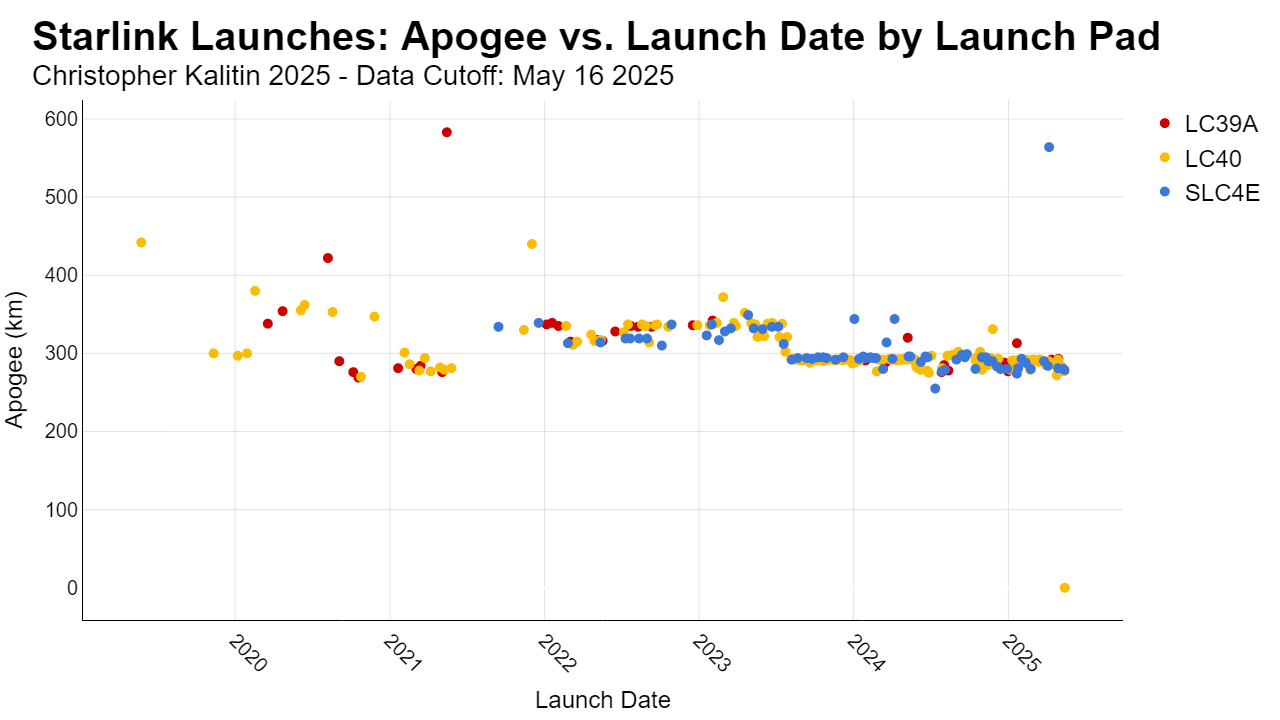
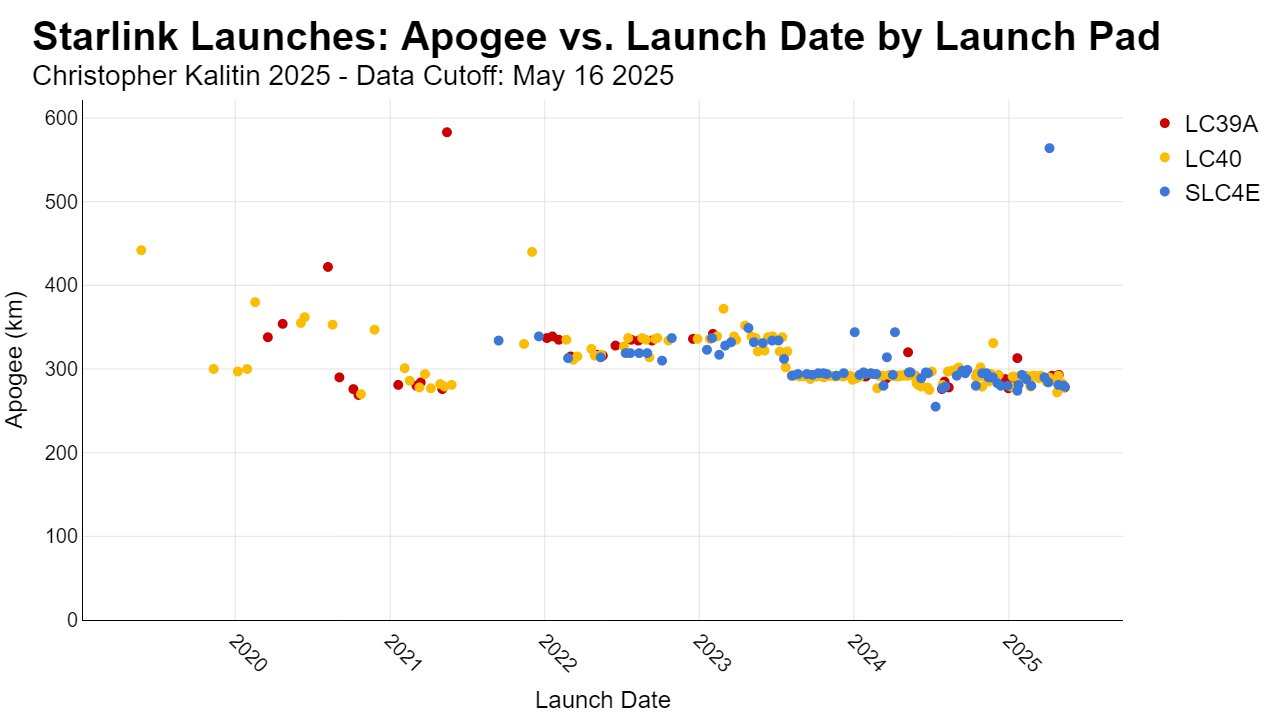
Refactor plot_scatter, update all chart scripts to refactored code

diff --git a/examples/starlink-inc-vs-date-per-site.py b/examples/starlink-inc-vs-date-per-site.py
@@ -1,52 +1,55 @@
 import mcdowell_dataset_analysis as mda
-import pandas as pd
-import matplotlib.pyplot as plt
 
-# Initialize the dataset
+# Initialize dataset
 dataset = mda.McdowellDataset()
-launch_df = dataset.launch.df.copy()
 
 # Filter for Starlink launches
-starlink_pattern = r'Starlink'
-filtered_df = launch_df[launch_df['Mission'].str.contains(starlink_pattern, case=False, na=False, regex=True)]
-print(f"Number of Starlink- launches: {len(filtered_df)}")
+mda.Filters.filter_by_mission(dataset.launch, 'Starlink', case=False)
+filtered_df = dataset.launch.df
+print(f"Number of Starlink launches: {len(filtered_df)}")
 
-# Select relevant columns
-filtered_df = filtered_df[['Launch_Date', 'Inc', 'Launch_Pad']]
+# Select relevant columns and drop missing Inclination
+filtered_df = (
+    filtered_df[['Launch_Date', 'Inc', 'Launch_Pad']]
+    .dropna(subset=['Inc'])
+)
 
-# Drop rows with missing Inclination_deg
-filtered_df = filtered_df.dropna(subset=['Inc'])
-print(f"Number of launches with valid Inclination_deg: {len(filtered_df)}")
+# Remove 0 inclination values
+filtered_df = filtered_df[filtered_df['Inc'] != 0]
 
-# Print unique launch pads
-print("Unique launch pads for Starlink- launches:")
+print(f"Number of launches with valid Inclination: {len(filtered_df)}")
+print("Unique launch pads for Starlink launches:")
 print(filtered_df['Launch_Pad'].unique())
 
-# Pivot the table: Launch_Date as index, Launch_Pad as columns, Inclination_deg as values
-pivoted_df = filtered_df.pivot(index='Launch_Date', columns='Launch_Pad', values='Inc')
+# Pivot for plotting
+pivoted_df = mda.ChartUtils.pivot_dataframe(
+    filtered_df,
+    index_col='Launch_Date',
+    column_col='Launch_Pad',
+    value_col='Inc'
+)
 
-# Reset index to make Launch_Date a column
-pivoted_df = pivoted_df.reset_index()
-
-# Sort by Launch_Date
-pivoted_df = pivoted_df.sort_values(by='Launch_Date')
-
-# Save to CSV without index
-pivoted_df.to_csv('examples/outputs/starlink_inclination_vs_date.csv', index=False)
+# Save to CSV
+pivoted_df.to_csv(
+    'examples/outputs/starlink_inclination_vs_date.csv',
+    index=False
+)
 print("CSV file 'starlink_inclination_vs_date.csv' has been created.")
 
 # Create scatter plot
-plt.figure(figsize=(10, 6))
-for pad in pivoted_df.columns[1:]:  # Skip 'Launch_Date'
-    plt.scatter(pivoted_df['Launch_Date'], pivoted_df[pad], label=pad, alpha=0.7)
-
-# Customize plot
-plt.title('Starlink- Launches: Inclination vs. Launch Date by Launch Pad')
-plt.xlabel('Launch Date')
-plt.ylabel('Inclination (degrees)')
-plt.legend(title='Launch Pad')
-plt.grid(True)
-
-# Save plot
-plt.savefig('examples/outputs/starlink_inclination_vs_date.png')
-print("Plot saved as 'starlink_inclination_vs_date.png'.")
+mda.ChartUtils.plot_scatter(
+    pivoted_df,
+    x_col='Launch_Date',
+    y_cols=pivoted_df.columns[1:],        # skip the date column
+    title='Starlink Launches: Inclination vs. Launch Date by Launch Pad',
+    subtitle='Christopher Kalitin 2025 – Data Cutoff: May 16 2025',
+    x_label='Launch Date',
+    y_label='Inclination (degrees)',
+    dot_diameter=10,
+    output_path='examples/outputs/starlink_inclination_vs_date.png',
+    color_map={
+        'LC40': '#fbbc04',
+        'LC39A': '#cc0000',
+        'SLC4E': '#3c78d8',
+    },
+)

diff --git a/examples/starlink-mass-vs-date-per-site.py b/examples/starlink-mass-vs-date-per-site.py
@@ -1,52 +1,58 @@
 import mcdowell_dataset_analysis as mda
-import pandas as pd
-import matplotlib.pyplot as plt
 
-# Initialize the dataset
+# Initialize dataset
 dataset = mda.McdowellDataset()
-launch_df = dataset.launch.df.copy()
 
 # Filter for Starlink launches
-starlink_pattern = r'Starlink'
-filtered_df = launch_df[launch_df['Flight'].str.contains(starlink_pattern, case=False, na=False, regex=True)]
+mda.Filters.filter_by_mission(dataset.launch, 'Starlink', case=False)
+filtered_df = dataset.launch.df
 print(f"Number of Starlink launches: {len(filtered_df)}")
 
-# Select relevant columns
-filtered_df = filtered_df[['Launch_Date', 'Payload_Mass', 'Launch_Pad']]
+# Select relevant columns and drop missing Payload_Mass
+filtered_df = (
+    filtered_df[
+        ['Launch_Date', 'Payload_Mass', 'Launch_Pad']
+    ]
+    .dropna(subset=['Payload_Mass'])
+)
 
-# Drop rows with missing Payload_Mass
-filtered_df = filtered_df.dropna(subset=['Payload_Mass'])
+# Remove 0 payload mass values
+filtered_df = filtered_df[filtered_df['Payload_Mass'] != 0]
+
 print(f"Number of launches with valid Payload_Mass: {len(filtered_df)}")
-
-# Print unique launch pads
 print("Unique launch pads for Starlink launches:")
 print(filtered_df['Launch_Pad'].unique())
 
-# Pivot the table: Launch_Date as index, Launch_Pad as columns, Payload_Mass as values
-pivoted_df = filtered_df.pivot(index='Launch_Date', columns='Launch_Pad', values='Payload_Mass')
+# Pivot for plotting
+pivoted_df = mda.ChartUtils.pivot_dataframe(
+    filtered_df,
+    index_col='Launch_Date',
+    column_col='Launch_Pad',
+    value_col='Payload_Mass'
+)
 
-# Reset index to make Launch_Date a column
-pivoted_df = pivoted_df.reset_index()
-
-# Sort by Launch_Date
-pivoted_df = pivoted_df.sort_values(by='Launch_Date')
-
-# Save to CSV without index
-pivoted_df.to_csv('examples/outputs/starlink_mass_vs_date.csv', index=False)
+# Save to CSV
+pivoted_df.to_csv(
+    'examples/outputs/starlink_mass_vs_date.csv',
+    index=False
+)
 print("CSV file 'starlink_mass_vs_date.csv' has been created.")
 
 # Create scatter plot
-plt.figure(figsize=(10, 6))
-for pad in pivoted_df.columns[1:]:  # Skip 'Launch_Date'
-    plt.scatter(pivoted_df['Launch_Date'], pivoted_df[pad], label=pad, alpha=0.7)
-
-# Customize plot
-plt.title('Starlink Launches: Payload Mass vs. Launch Date by Launch Pad')
-plt.xlabel('Launch Date')
-plt.ylabel('Payload Mass (kg)')
-plt.legend(title='Launch Pad')
-plt.grid(True)
-
-# Save plot
-plt.savefig('examples/outputs/starlink_mass_vs_date.png')
-print("Plot saved as 'starlink_mass_vs_date.png'.")
+mda.ChartUtils.plot_scatter(
+    pivoted_df,
+    x_col='Launch_Date',
+    y_cols=pivoted_df.columns[1:],        # skip the date column
+    title='Starlink Launches: Payload Mass vs. Launch Date by Pad',
+    subtitle='Christopher Kalitin 2025 – Data Cutoff: May 16 2025',
+    x_label='Launch Date',
+    y_label='Payload Mass (t)',
+    y_scaling_factor=1e-3,  # Convert kg to metric tons
+    dot_diameter=10,
+    output_path='examples/outputs/starlink_mass_vs_date.png',
+    color_map={
+        'LC40': '#fbbc04',
+        'LC39A': '#cc0000',
+        'SLC4E': '#3c78d8',
+    },
+)

diff --git a/src/chart_utils.py b/src/chart_utils.py
@@ -86,6 +86,7 @@ class ChartUtils:
             yaxis=dict(
                 gridcolor="rgba(200, 200, 200, 0.5)",
                 linecolor="#000000",
+                rangemode='tozero',           # <— force start at 0
                 title_font=dict(size=24, family="Arial, sans-serif"),
                 title_text=y_label,
             ),
@@ -106,8 +107,7 @@ class ChartUtils:
         
         print(f"Plot saved as '{output_path}'.")
     
-    # Example: plot_scatter_plotly(df, 'Payload_Mass', ['LEO', 'SSO', 'MEO'], 'Falcon 9 Launches vs. Payload Mass by Orbit', 'Payload Mass (tonnes)', 'Number of Launches', 'examples/outputs/f9_mass_by_orbit.png')
-    def plot_scatter(dataframe, x_col, y_cols, title, subtitle, x_label, y_label, dot_diameter, output_path, color_map):
+    def plot_scatter(dataframe, x_col, y_cols, title, subtitle, x_label, y_label, dot_diameter, output_path, color_map, y_scaling_factor=1):
         """
         Create a scatter plot using Plotly Express.
         Args:
@@ -118,17 +118,24 @@ class ChartUtils:
             subtitle (string): Best to include the date of the data cut-off "Date Cutoff: YYYY-MM-DD"
             x_label (string): It's simple
             y_label (string): It's simple
+            y_scaling_factor (float/int): Multiplicative factor to scale the y-axis
             output_path (string): Full path including filename to save the plot
             color_map (dictionary): y_col to color mapping, eg. {'LC40': '#ff0000', 'LC39A': '#00ff00'}
         """
         
-        fig = px.scatter(dataframe,
+        df = dataframe.copy()
+        if y_scaling_factor != 1:
+            for col in y_cols:
+                df[col] = df[col] * y_scaling_factor
+        
+        fig = px.scatter(df,
                          x=x_col,
                          y=y_cols,
                          title=f'<b>{title}</b><br><sup>{subtitle}</sup>',
                          color_discrete_map=color_map,
                          )
         
+        # Set diameter
         fig.update_traces(marker=dict(size=dot_diameter))
         
         fig.update_layout(
@@ -149,6 +156,7 @@ class ChartUtils:
             yaxis=dict(
                 gridcolor="rgba(200, 200, 200, 0.5)",
                 linecolor="#000000",
+                rangemode='tozero',           # <— force start at 0
                 title_font=dict(size=24, family="Arial, sans-serif"),
                 title_text=y_label,
             ),

diff --git a/examples/starlink-apogee-vs-date-per-site.py b/examples/starlink-apogee-vs-date-per-site.py
@@ -12,6 +12,10 @@ print(f"Number of Starlink launches: {len(filtered_df)}")
 
 # Select relevant columns and drop missing Apogee
 filtered_df = filtered_df[['Launch_Date', 'Apogee', 'Launch_Pad']].dropna(subset=['Apogee'])
+
+# Remove 0 apogee values
+filtered_df = filtered_df[filtered_df['Apogee'] != 0]
+
 print(f"Number of launches with valid Apogee: {len(filtered_df)}")
 print("Unique launch pads for Starlink launches:")
 print(filtered_df['Launch_Pad'].unique())
